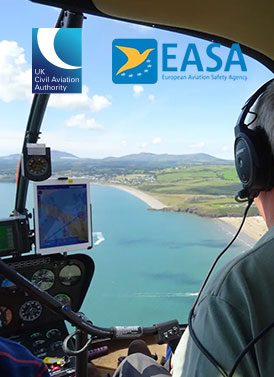
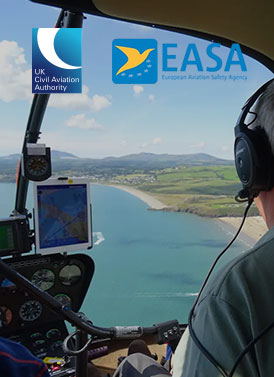
fix

diff --git a/app/components/NavMenu.tsx b/app/components/NavMenu.tsx
@@ -208,7 +208,7 @@ export function NavMenu({
 							{/* </div> */}
 							<div className="w-[250px] h-auto  ml-auto relative">
 								<Image
-									src="/images/nav-training.webp"
+									src="/images/nav-training.jpg"
 									alt="industry"
 									fill
 									placeholder="blur"
